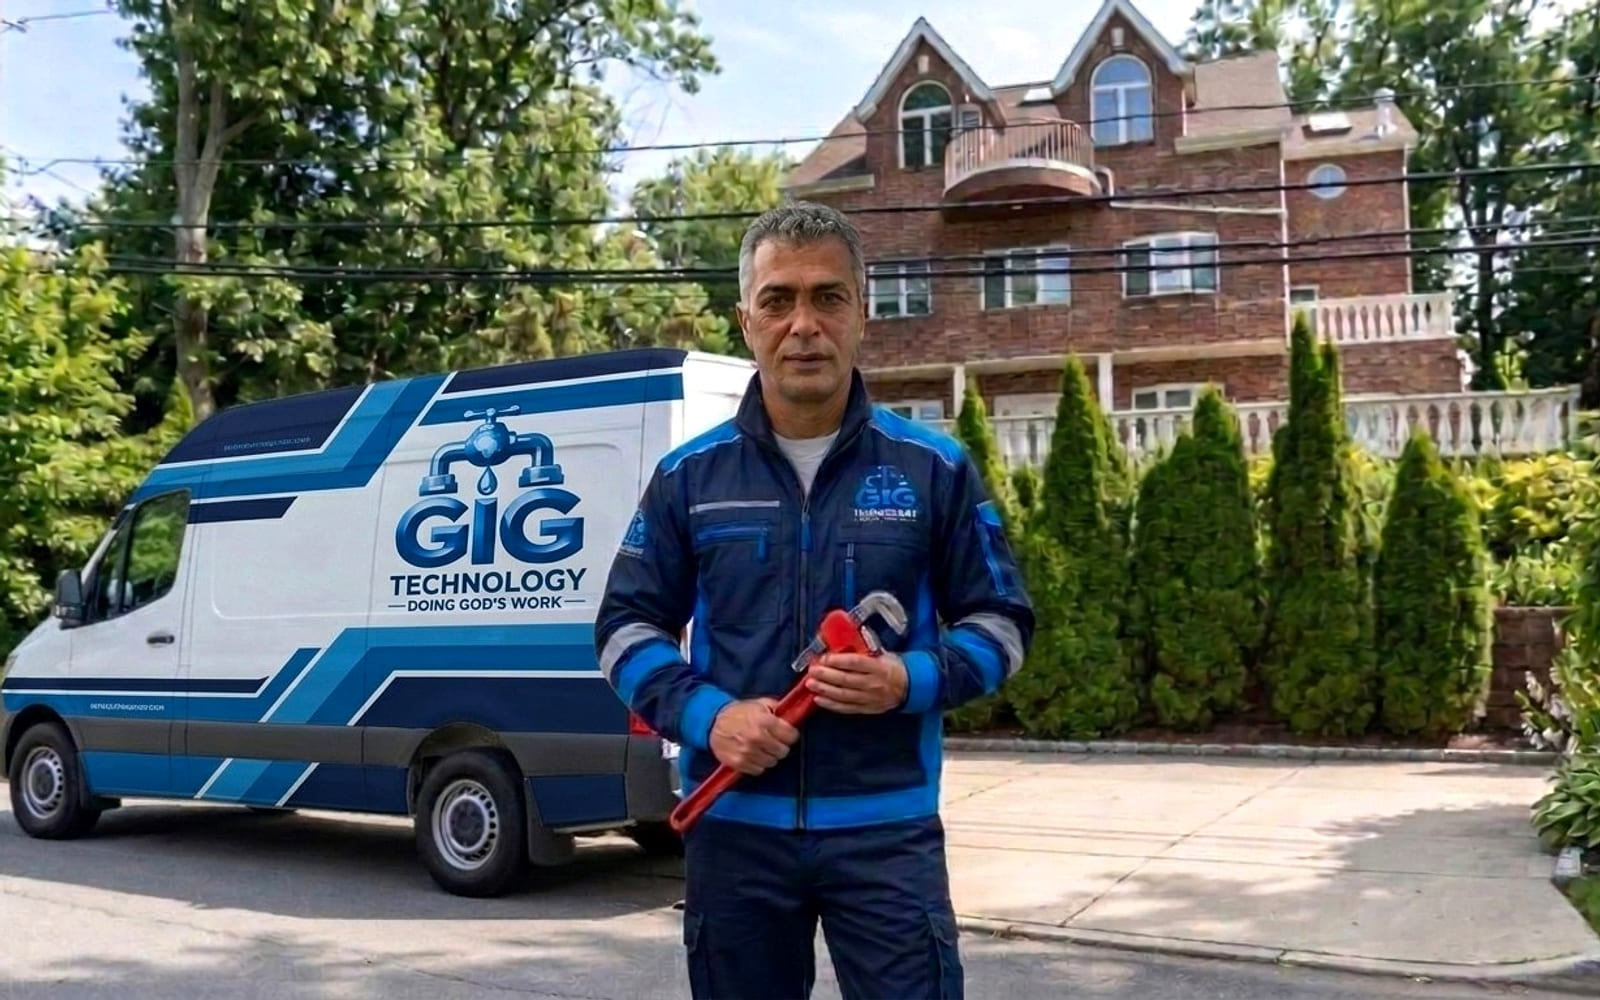
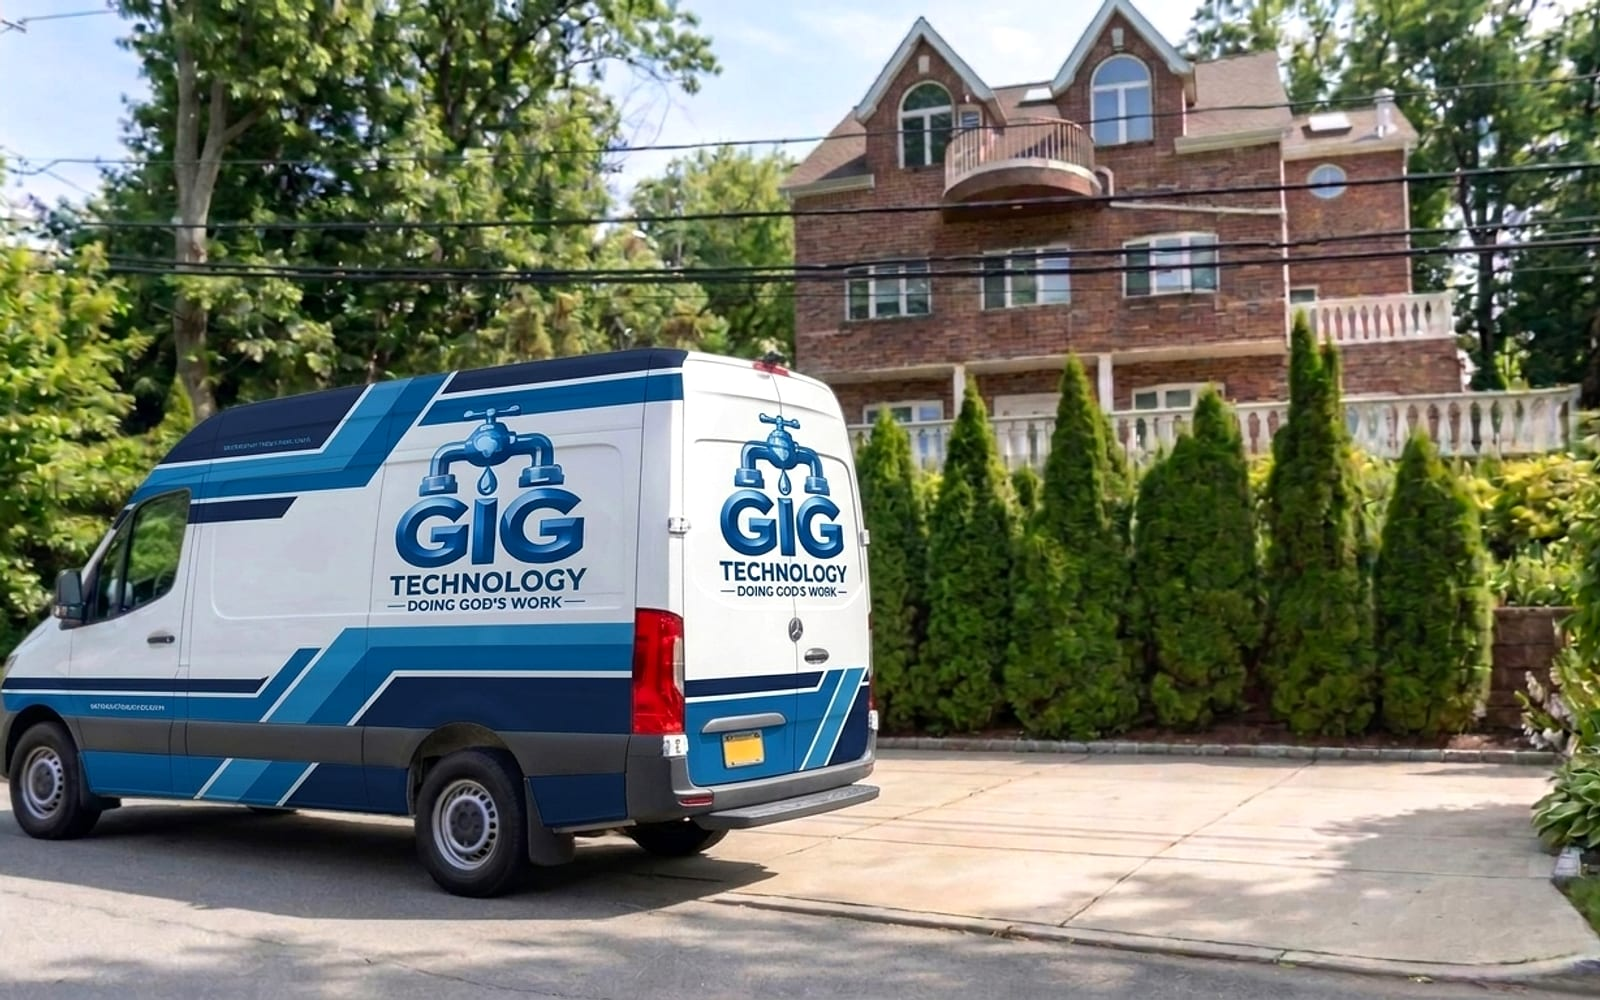
Replace the technician-with-van photo by the van-only photo site-wide
Used on the contact hero and the plumbing intro.

diff --git a/IMAGES-A-FOURNIR.md b/IMAGES-A-FOURNIR.md
@@ -1,6 +1,6 @@
 # Images — GIG Technology
 
-Toutes les photos sont dérivées des 5 visuels fournis par le client le 12 novembre 2026 (originaux conservés dans `gig-visuels/originaux/`). Plus aucune photo Unsplash n'est utilisée.
+Toutes les photos sont dérivées des visuels fournis par le client le 12 novembre 2026 (originaux conservés dans `gig-visuels/originaux/`). Plus aucune photo Unsplash n'est utilisée.
 
 **Pour remplacer une photo :**
 1. Remplacez le fichier dans `public/images/` en gardant **exactement le même nom**.
@@ -11,16 +11,16 @@ Formats conseillés : JPG, qualité 75-80 %, moins de 450 Ko.
 
 | # | Fichier | Dimensions | Section / page | Photo actuelle |
 |---|---|---|---|---|
-| 1 | `hero-home.jpg` | 1920 × 1080 | Accueil, Hero | ✅ Visuel 1 : technicien devant le camion GIG et la maison |
-| 2 | `about-team.jpg` | 900 × 1100 (portrait) | Accueil, About | ✅ Visuel 1 (recadrage portrait : technicien + maison) |
+| 1 | `hero-home.jpg` | 1920 × 1080 | Accueil, Hero | ✅ Visuel 6 : technicien sur chantier (casque GIG) |
+| 2 | `about-team.jpg` | 900 × 1100 (portrait) | Accueil, About | ✅ Visuel 6 (recadrage portrait) |
 | 3 | `service-plumbing.jpg` | 1920 × 1200 | Carte Plumbing + Hero de la page Plumbing | ✅ Visuel 5 : atelier plomberie, camion outillé, logo GIG |
 | 4 | `service-heating.jpg` | 1920 × 1200 | Carte Heating + Hero de la page Heating | ✅ Visuel 4 : chaufferie, chaudière murale |
 | 5 | `service-hvac.jpg` | 1920 × 1200 | Carte HVAC + Hero de la page HVAC | ✅ Visuel 2 : chantier, gaines de ventilation, casque GIG |
 | 6 | `service-fire-protection.jpg` | 1920 × 1200 | Carte Fire Protection + Hero de la page | ✅ Visuel 3 : local sécurité incendie (extincteurs, centrale, RIA) |
-| 7 | `plumbing-intro.jpg` | 1000 × 800 | Page Plumbing, intro | ✅ Visuel 1 (recadrage : camion + technicien) |
+| 7 | `plumbing-intro.jpg` | 1000 × 800 | Page Plumbing, intro | ✅ Visuel 7 (recadrage : camion + maison) |
 | 8 | `heating-intro.jpg` | 1000 × 800 | Page Heating, intro | ✅ Visuel 4 (recadrage : technicien + chaudière) |
 | 9 | `hvac-intro.jpg` | 1000 × 800 | Page HVAC, intro | ✅ Visuel 4 (recadrage : gaines + collecteur) |
 | 10 | `fire-protection-intro.jpg` | 1000 × 800 | Page Fire Protection, intro | ✅ Visuel 3 (recadrage : centrale incendie + extincteurs) |
-| 11 | `hero-contact.jpg` | 1920 × 1080 | Page Contact, Hero | ✅ Visuel 1 (bande 16:10 : camion + technicien) |
+| 11 | `hero-contact.jpg` | 1920 × 1080 | Page Contact, Hero | ✅ Visuel 7 : camion GIG devant la maison |
 | 12 | `og-default.jpg` *(optionnel)* | 1200 × 630 | Image de partage sur les réseaux sociaux (générée à partir du logo) | — |
 | 13 | Logo PNG transparent ou SVG *(optionnel)* | ≥ 1000 px | Header / footer / favicon | remplacer `public/logo.jpg`, puis `npm run icons` |
